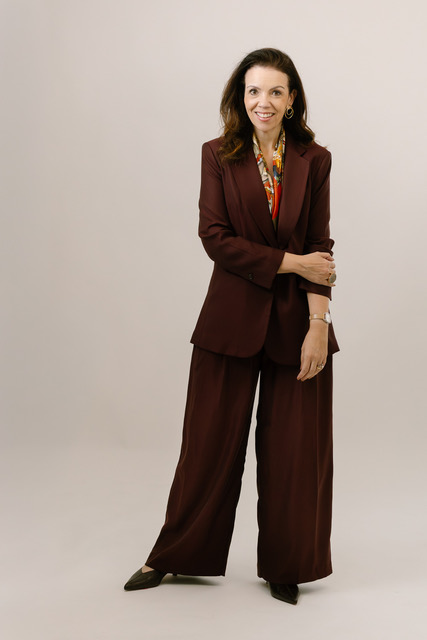
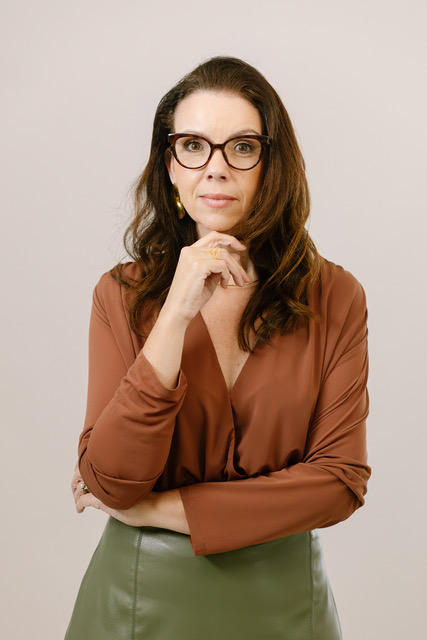
Atualiza foto de Carolina e destaca mapa no enquadramento

diff --git a/src/components/sections/Contact.tsx b/src/components/sections/Contact.tsx
@@ -21,7 +21,7 @@ export default function Contact() {
             alt="Carolina Décaillet sorrindo enquanto planeja uma viagem sobre um mapa da Suíça"
             sizes="(min-width: 1152px) 1152px, 92vw"
             parallax={7}
-            objectPosition="50% 20%"
+            objectPosition="50% 100%"
             className="aspect-[4/3] w-full sm:aspect-[16/9] lg:aspect-[2/1]"
           />
         </div>
